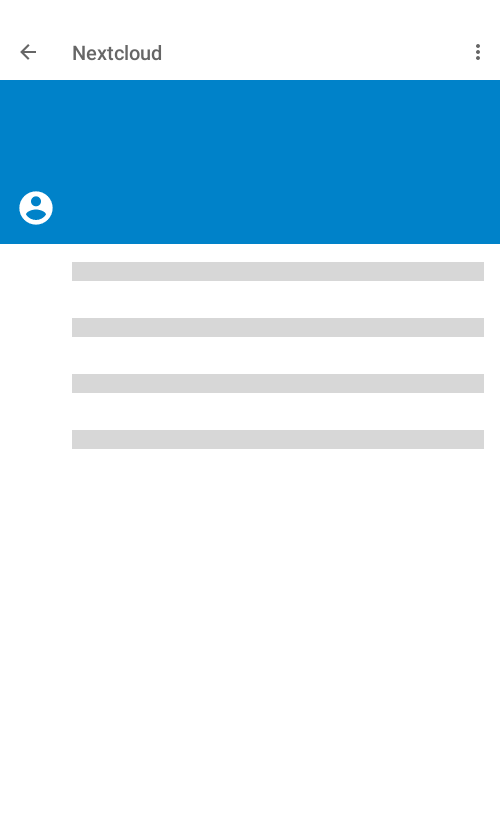
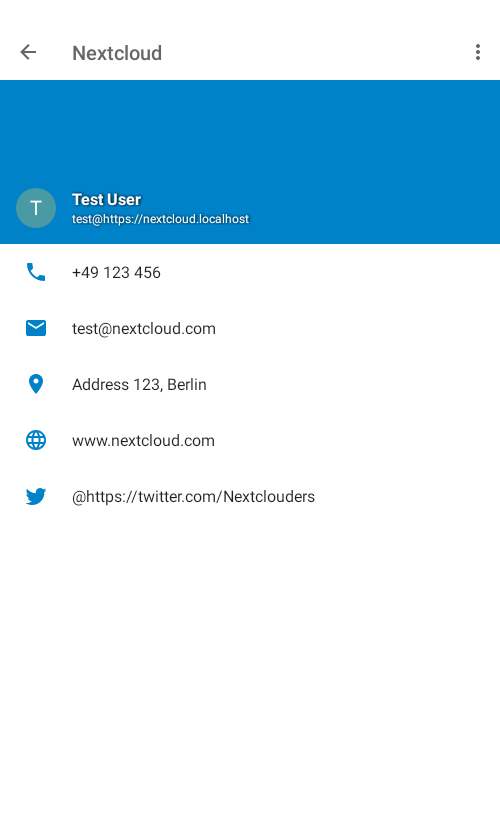
Fixed last(?) test

diff --git a/src/main/java/com/owncloud/android/ui/activity/ManageAccountsActivity.java b/src/main/java/com/owncloud/android/ui/activity/ManageAccountsActivity.java
@@ -50,6 +50,7 @@ import com.owncloud.android.datamodel.FileDataStorageManager;
 import com.owncloud.android.files.services.FileDownloader;
 import com.owncloud.android.files.services.FileUploader;
 import com.owncloud.android.lib.common.OwnCloudAccount;
+import com.owncloud.android.lib.common.UserInfo;
 import com.owncloud.android.lib.common.utils.Log_OC;
 import com.owncloud.android.services.OperationsService;
 import com.owncloud.android.ui.adapter.UserListAdapter;
@@ -71,12 +72,14 @@ import java.util.Set;
 
 import javax.inject.Inject;
 
+import androidx.annotation.VisibleForTesting;
 import androidx.appcompat.app.ActionBar;
 import androidx.appcompat.widget.PopupMenu;
 import androidx.fragment.app.FragmentManager;
 import androidx.recyclerview.widget.LinearLayoutManager;
 import androidx.recyclerview.widget.RecyclerView;
 
+import static com.owncloud.android.ui.activity.UserInfoActivity.KEY_USER_DATA;
 import static com.owncloud.android.ui.adapter.UserListAdapter.KEY_DISPLAY_NAME;
 import static com.owncloud.android.ui.adapter.UserListAdapter.KEY_USER_INFO_REQUEST_CODE;
 
@@ -468,13 +471,23 @@ public class ManageAccountsActivity extends FileActivity implements UserListAdap
         startActivityForResult(intent, KEY_USER_INFO_REQUEST_CODE);
     }
 
+    @VisibleForTesting
+    public void showUser(User user, UserInfo userInfo) {
+        final Intent intent = new Intent(this, UserInfoActivity.class);
+        OwnCloudAccount oca = user.toOwnCloudAccount();
+        intent.putExtra(UserInfoActivity.KEY_ACCOUNT, user);
+        intent.putExtra(KEY_DISPLAY_NAME, oca.getDisplayName());
+        intent.putExtra(KEY_USER_DATA, Parcels.wrap(userInfo));
+        startActivityForResult(intent, KEY_USER_INFO_REQUEST_CODE);
+    }
+
     @Override
     public void onOptionItemClicked(User user, View view) {
         if (view.getId() == R.id.account_menu) {
             PopupMenu popup = new PopupMenu(this, view);
             popup.getMenuInflater().inflate(R.menu.item_account, popup.getMenu());
 
-            if(accountManager.getUser().equals(user)) {
+            if (accountManager.getUser().equals(user)) {
                 popup.getMenu().findItem(R.id.action_open_account).setVisible(false);
             }
             popup.setOnMenuItemClickListener(item -> {

diff --git a/src/androidTest/java/com/owncloud/android/ui/activity/ManageAccountsActivityIT.java b/src/androidTest/java/com/owncloud/android/ui/activity/ManageAccountsActivityIT.java
@@ -26,10 +26,14 @@ import android.app.Activity;
 
 import com.nextcloud.client.account.User;
 import com.owncloud.android.AbstractIT;
+import com.owncloud.android.lib.common.Quota;
+import com.owncloud.android.lib.common.UserInfo;
 import com.owncloud.android.utils.ScreenshotTest;
 
 import org.junit.Rule;
 import org.junit.Test;
+
+import java.util.ArrayList;
 
 import androidx.test.espresso.intent.rule.IntentsTestRule;
 
@@ -55,7 +59,19 @@ public class ManageAccountsActivityIT extends AbstractIT {
         ManageAccountsActivity sut = activityRule.launchActivity(null);
 
         User user = sut.accountManager.getUser();
-        sut.onAccountClicked(user);
+
+        UserInfo userInfo = new UserInfo("test",
+                                         true,
+                                         "Test User",
+                                         "test@nextcloud.com",
+                                         "+49 123 456",
+                                         "Address 123, Berlin",
+                                         "https://www.nextcloud.com",
+                                         "https://twitter.com/Nextclouders",
+                                         new Quota(),
+                                         new ArrayList<>());
+
+        sut.showUser(user, userInfo);
 
         shortSleep();
         shortSleep();
